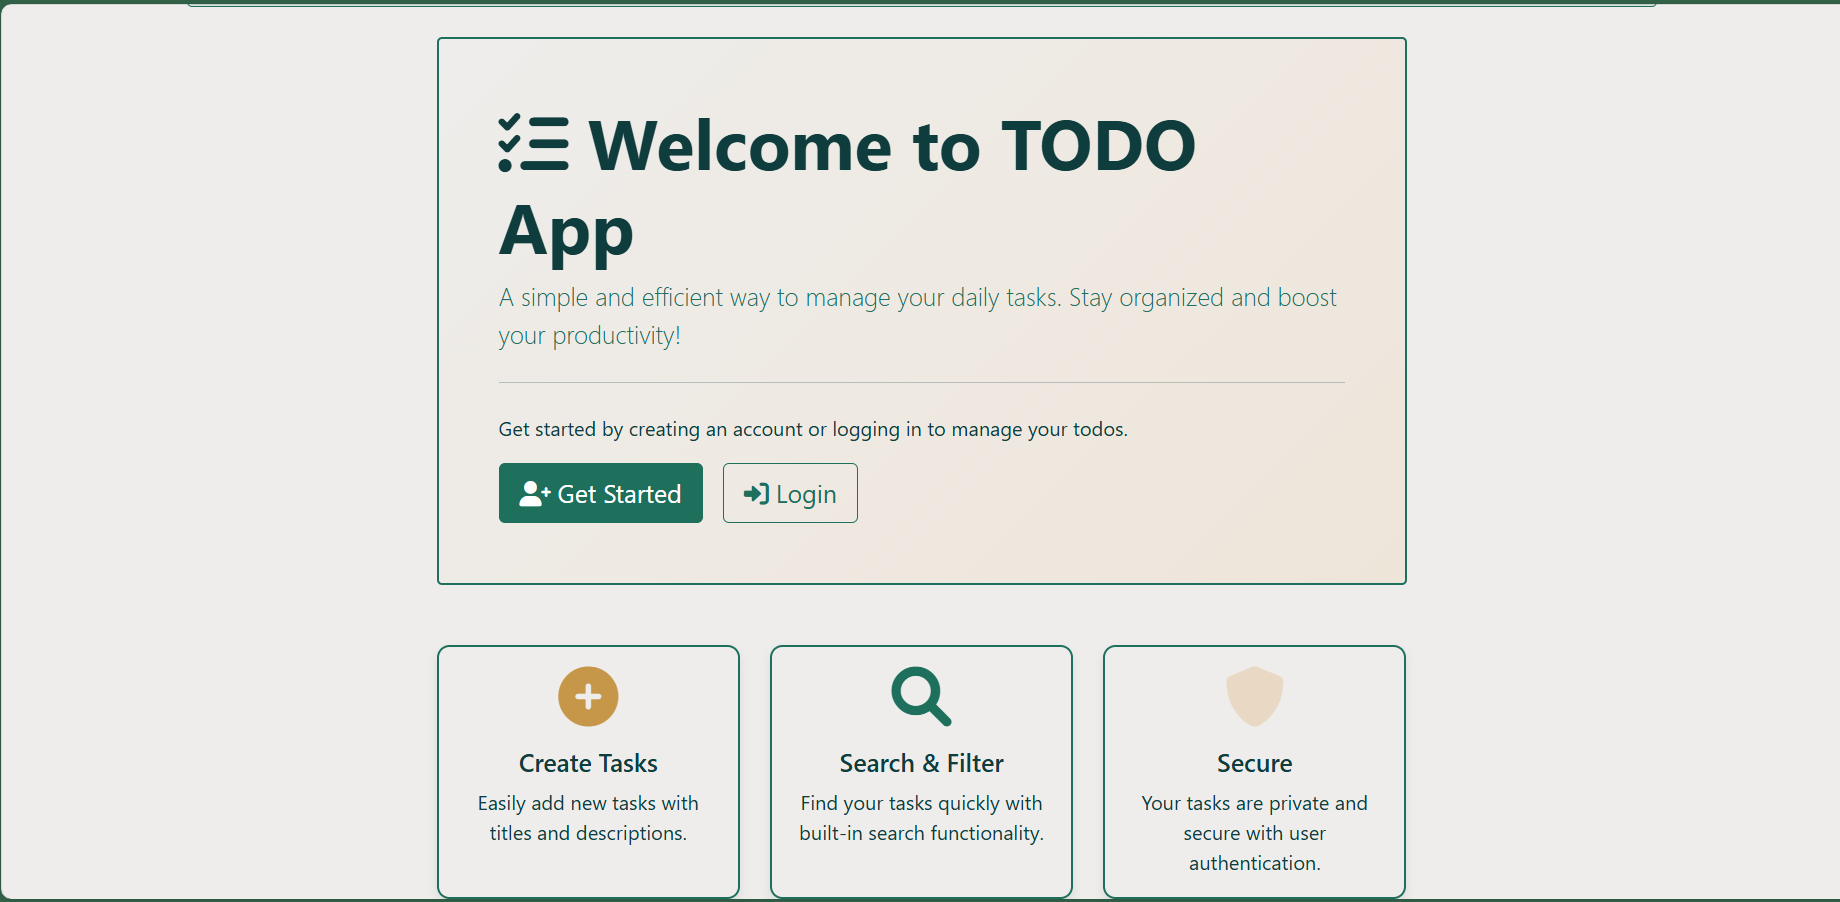
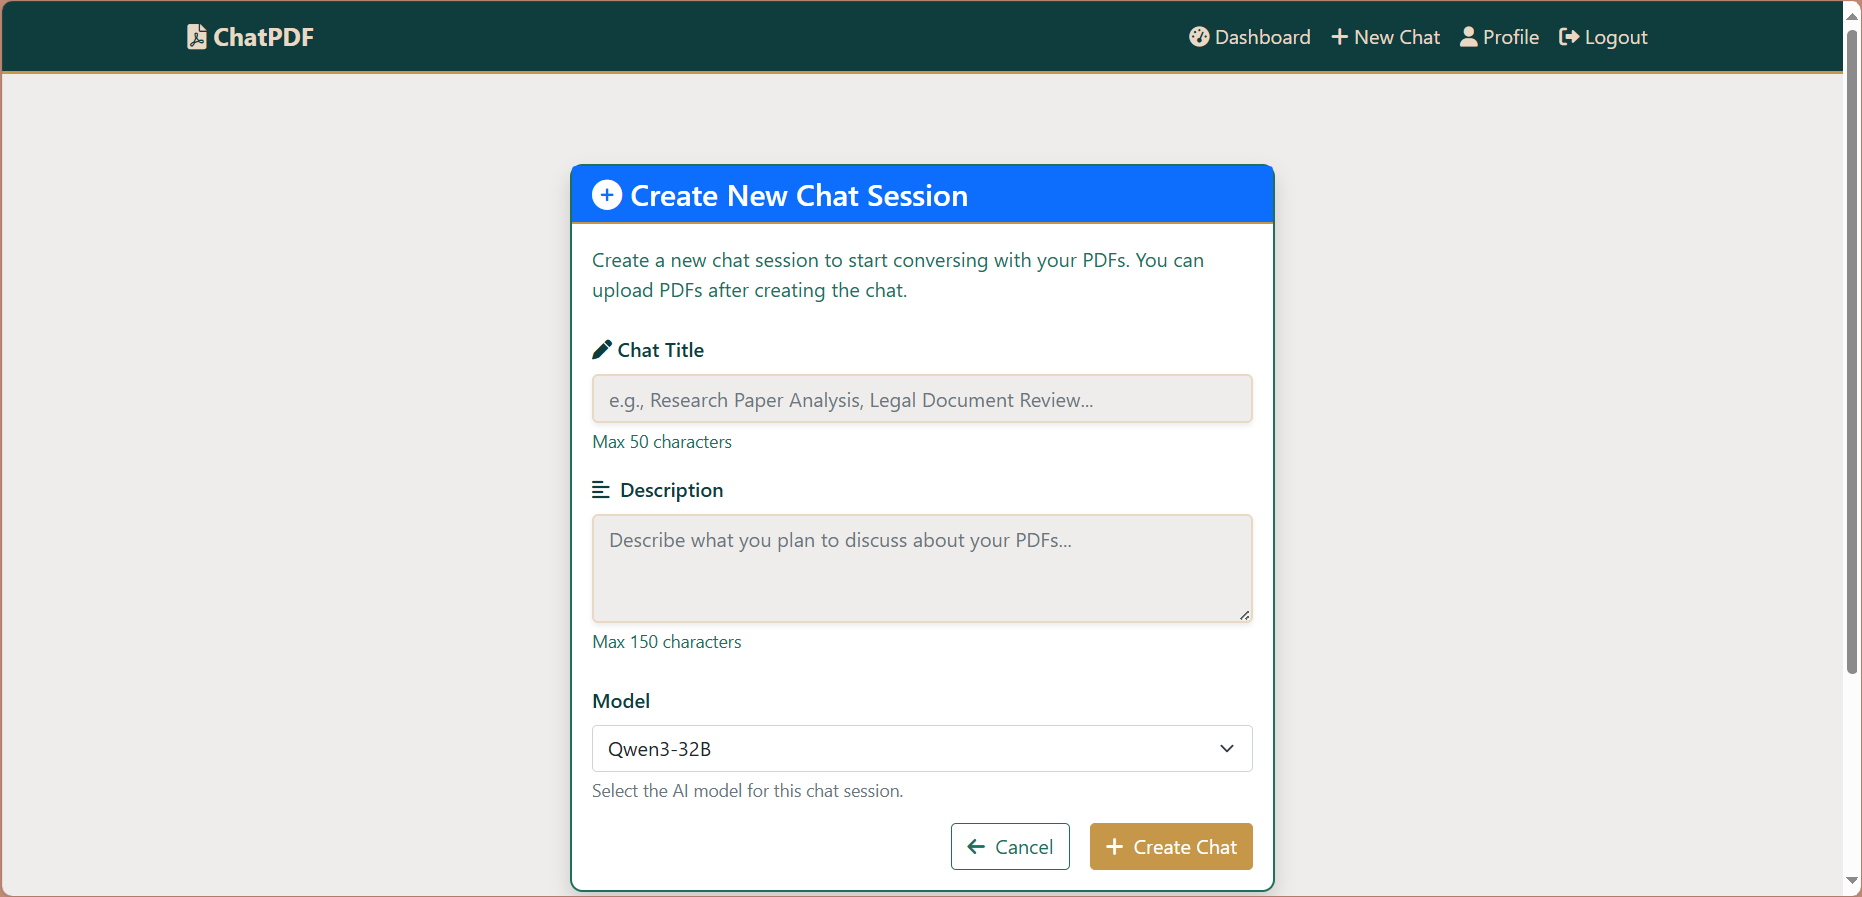
Refactor code structure for improved readability and maintainability

diff --git a/LangChain/ChatPDF/app/templates/chat/edit.html b/LangChain/ChatPDF/app/templates/chat/edit.html
@@ -19,7 +19,7 @@
                     </div>
                     
                     <div class="mb-3">
-                        <label for="description" class="form-label">Description</label>
+                        <label for="description" class="form-label">Custom Prompt</label>
                         <textarea class="form-control" id="description" name="description" 
                                   rows="4" maxlength="150" required>{{ chat.description }}</textarea>
                         <div class="form-text">Maximum 150 characters</div>

diff --git a/LangChain/ChatPDF/app/templates/chat/create.html b/LangChain/ChatPDF/app/templates/chat/create.html
@@ -34,7 +34,7 @@
                         
                         <div class="mb-4">
                             <label for="description" class="form-label text-custom-primary">
-                                <i class="fas fa-align-left me-1"></i> Description
+                                <i class="fas fa-align-left me-1"></i> Custom System Prompt
                             </label>
                             <textarea class="form-control shadow-sm" 
                                     id="description" 

diff --git a/LangChain/ChatPDF/README.md b/LangChain/ChatPDF/README.md
@@ -1,128 +1,225 @@
-# ChatPDF: AI-Powered PDF Chat & RAG App
-
-A modern Flask application for conversational PDF Q&A, leveraging Retrieval-Augmented Generation (RAG), advanced LLMs, and real-time voice/text interaction. Designed for research, productivity, and accessible document understanding.
+# ChatPDF: AI-powered chat interface for querying PDF documents using LangChain and RAG architecture
 
 ---
 
-## Overview
-ChatPDF lets you upload PDFs, ask questions, and get instant, source-cited answers using state-of-the-art AI. Features include user authentication, PDF management, streaming responses, clickable sources, and voice (TTS/STT) support.
+| Build Status | Test Coverage | License | Version |
+|--------------|--------------|---------|---------|
+| ![Build](https://img.shields.io/badge/build-passing-brightgreen) | ![Coverage](https://img.shields.io/badge/coverage-90%25-brightgreen) | ![License](https://img.shields.io/badge/license-MIT-blue) | ![Version](https://img.shields.io/badge/version-1.0.0-blue) |
 
 ---
 
-## Screenshots
-<!-- Add screenshots below -->
-![Dashboard Screenshot](app/static/img/main.png)
-![Chat Session Screenshot](app/static/img/todo.png)
+## Table of Contents
+- [Project Overview](#project-overview)
+- [Features](#features)
+- [Architecture](#architecture)
+- [Technology Stack](#technology-stack)
+- [Installation & Setup](#installation--setup)
+- [Environment Variables](#environment-variables)
+- [Quick Start Guide](#quick-start-guide)
+- [Usage](#usage)
+- [API Reference](#api-reference)
+- [Configuration Options](#configuration-options)
+- [Example Workflows](#example-workflows)
+- [Technical Details](#technical-details)
+- [Performance & Security](#performance--security)
+- [Contributing](#contributing)
+- [Changelog](#changelog)
+- [License](#license)
+- [Troubleshooting](#troubleshooting)
+- [FAQ](#faq)
+- [Contact & Support](#contact--support)
+- [Demo & Screenshots](#demo--screenshots)
+
+---
+
+## Project Overview
+ChatPDF is an AI-powered chat interface for querying PDF documents. It uses LangChain and Retrieval-Augmented Generation (RAG) to provide context-aware answers, semantic search, conversational memory, and citation tracking.
 
 ---
 
 ## Features
-- **PDF Upload & Management**: Securely upload and organize PDFs
-- **Conversational Q&A**: Ask questions and get AI-powered answers
-- **Source Attribution**: Clickable citations to exact PDF pages
-- **Streaming Responses**: Real-time AI answers
-- **Voice Interaction**: Speech-to-text and text-to-speech modules
-- **User Authentication**: Register, login, and manage profiles
-- **Responsive UI**: Works on desktop and mobile
+- **PDF Upload & Management**
+- **Semantic Search & RAG**
+- **Conversational Memory**
+- **Citation Tracking**
+- **Voice Interaction (STT/TTS)**
+- **Model Selection (Groq, Gemini, etc.)**
+- **Responsive UI**
+- **User Authentication**
+- **Source Attribution**
+- **Streaming Responses**
+- **Error Handling & Notifications**
 
 ---
 
-## Getting Started
+## Architecture
+```mermaid
+flowchart TD
+    A[PDF Ingestion] --> B[Text Chunking]
+    B --> C[Embeddings]
+    C --> D[Vector Store (Chroma/Pinecone)]
+    D --> E[Retriever]
+    E --> F[LLM Response]
+    F --> G[Chat Interface]
+```
 
+---
+
+## Technology Stack
+| Component         | Technology         |
+|-------------------|-------------------|
+| Framework         | Flask             |
+| LLM Orchestration | LangChain (v0.x)  |
+| Vector DB         | Chroma, Pinecone  |
+| Embeddings        | OpenAI, HuggingFace|
+| LLM Provider      | Groq, Gemini      |
+| Frontend          | Bootstrap, HTMX   |
+| Database          | SQLite            |
+| Voice             | Web Speech API    |
+
+---
+
+## Installation & Setup
 ### Prerequisites
 - Python 3.8+
 - Git
-- (Recommended) Virtual environment tool
+- (Optional) Virtual environment tool
+- API keys for LLMs and vector DBs
 
-### Installation
-1. **Clone the repository**
-   ```bash
-   git clone https://github.com/AbdullAharifx/PL-Work.git
-   cd PL-Work/LangChain/ChatPDF
-   ```
-2. **Create and activate a virtual environment**
-   ```bash
-   python -m venv venv
-   # On Windows:
-   venv\Scripts\activate
-   # On Linux/macOS:
-   source venv/bin/activate
-   ```
-3. **Install dependencies**
-   ```bash
-   pip install -r requirements.txt
-   ```
-4. **Configure environment variables**
-   - Create a `.env` file in the project root:
-     ```env
-     FLASK_ENV=development
-     SECRET_KEY=your_secret_key_here
-     GROQ_API_KEY=your_groq_api_key
-     GEMINI_API_KEY=your_gemini_api_key
-     ```
-5. **Run the application**
-   ```bash
-   python run.py
-   ```
-   The app will be available at [http://127.0.0.1:5000](http://127.0.0.1:5000)
+### Step-by-step Installation
+```bash
+git clone https://github.com/abdullaharifx/PL-Work.git
+cd PL-Work/LangChain/ChatPDF
+python -m venv venv
+venv\Scripts\activate  # Windows
+pip install -r requirements.txt
+```
+
+---
+
+## Environment Variables
+Create a `.env` file:
+```env
+FLASK_ENV=development
+SECRET_KEY=your_secret_key
+GROQ_API_KEY=your_groq_api_key
+GEMINI_API_KEY=your_gemini_api_key
+VECTOR_DB_URL=your_vector_db_url
+```
+| Variable         | Description                |
+|------------------|---------------------------|
+| FLASK_ENV        | Flask environment         |
+| SECRET_KEY       | Session security          |
+| GROQ_API_KEY     | Groq LLM API key          |
+| GEMINI_API_KEY   | Gemini LLM API key        |
+| VECTOR_DB_URL    | Vector DB connection      |
+
+---
+
+## Quick Start Guide
+```bash
+python run.py
+```
+Visit [http://localhost:5000](http://localhost:5000)
 
 ---
 
 ## Usage
-- Register or log in
-- Upload PDFs and start a chat session
-- Ask questions about your documents
-- Click source links to view cited PDF pages
-- Use microphone/speaker buttons for voice interaction
+- Register and log in
+- Upload PDFs
+- Select LLM model
+- Ask questions
+- View citations
+- Use voice features
 
 ---
 
-## Future Features & Improvements
-- Multi-document chat sessions
-- Advanced search and filtering
-- Collaborative chat and shared workspaces
-- REST API for integration
-- Dark mode and theme customization
-- Push notifications and reminders
-- Enhanced analytics and usage stats
+## API Reference
+| Endpoint                | Method | Description                  |
+|-------------------------|--------|------------------------------|
+| `/api/upload`           | POST   | Upload PDF                   |
+| `/api/chat`             | POST   | Send chat message            |
+| `/api/search`           | GET    | Semantic search              |
+
+Example request:
+```json
+POST /api/chat
+{
+  "chat_id": 123,
+  "message": "Summarize this PDF"
+}
+```
+
+---
+
+## Configuration Options
+| Option           | Default | Description                  |
+|------------------|---------|------------------------------|
+| chunk_size       | 512     | Text chunk size              |
+| chunk_overlap    | 64      | Overlap between chunks       |
+| similarity_thr   | 0.8     | Retrieval similarity cutoff  |
+| model_selection  | qwen3-32b | LLM model per chat         |
+
+---
+
+## Example Workflows
+1. Upload PDF → Ask question → Get answer with citations
+2. Use voice input → Receive spoken response
+3. Switch LLM model for a chat session
+
+---
+
+## Technical Details
+- **Data Flow:** PDF → Chunking → Embedding → Vector DB → Retrieval → LLM → Response
+- **Performance:** Recommended: 4GB RAM+, SSD, API rate limits
+- **Security:** API keys in `.env`, HTTPS for deployment, user authentication
 
 ---
 
 ## Contributing
-We welcome contributions from the community!
+- Fork, branch, PR
+- Follow PEP8
+- Add tests
+- See [CONTRIBUTING.md](CONTRIBUTING.md)
 
-### How to Contribute
-1. **Fork the repository**
-2. **Create a feature branch**
-   ```bash
-   git checkout -b feature/your-feature-name
-   ```
-3. **Make your changes** (add tests if possible)
-4. **Run tests**
-   ```bash
-   python -m pytest tests/
-   ```
-5. **Commit your changes**
-   ```bash
-   git commit -m "Describe your changes"
-   ```
-6. **Push to your branch**
-   ```bash
-   git push origin feature/your-feature-name
-   ```
-7. **Open a Pull Request** on GitHub
+---
 
-### Contribution Guidelines
-- Follow PEP 8 style guidelines
-- Add tests for new features
-- Update documentation as needed
-- Ensure all tests pass before submitting
+## Changelog
+See [CHANGELOG.md](CHANGELOG.md) for version history.
 
 ---
 
 ## License
-This project is licensed under the MIT License. See the [LICENSE.md](LICENSE.md) for details.
+MIT License. See [LICENSE.md](LICENSE.md).
 
 ---
 
-**Built with ❤ using Flask, Python, and modern AI tools**
+## Troubleshooting
+| Issue                | Solution                       |
+|----------------------|-------------------------------|
+| API key error        | Check `.env` file              |
+| Vector DB not found  | Verify VECTOR_DB_URL           |
+| LLM timeout          | Check provider status          |
+
+---
+
+## FAQ
+**Q:** Can I use other LLMs?  
+**A:** Yes, add API keys and update config.
+
+**Q:** Is my data private?  
+**A:** Yes, PDFs are stored locally and not shared.
+
+---
+
+## Contact & Support
+- Issues: [GitHub Issues](https://github.com/abdullaharifx/PL-Work/issues)
+- Email: support@example.com
+
+---
+
+## Demo & Screenshots
+![Dashboard Screenshot](app/static/img/main.png)
+![Chat Session Screenshot](app/static/img/todo.png)
+
+---
